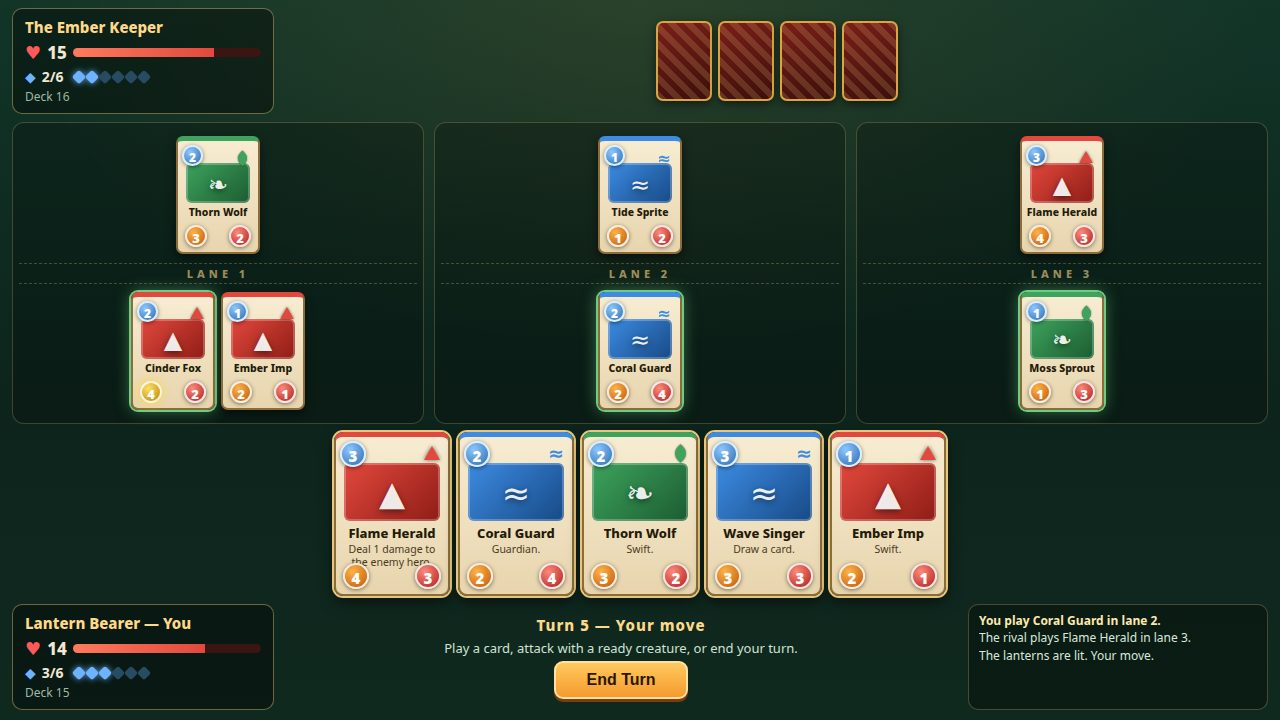
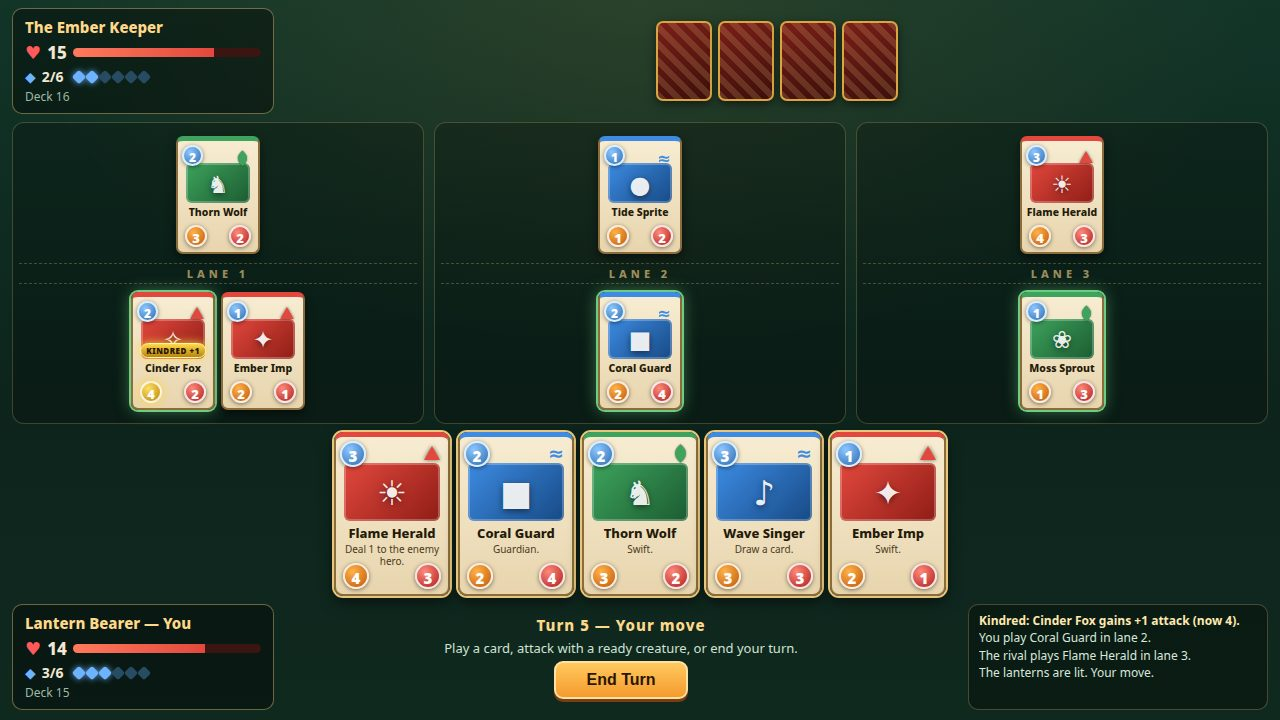
Lantern Lanes revision: distinct art per card, Kindred badge, cover card, unclipped text, win/loss flourish

diff --git a/game/style.css b/game/style.css
@@ -31,6 +31,9 @@ body {
   padding: 16px;
 }
 
+.title-row { display: flex; align-items: center; justify-content: center; gap: 44px; }
+.title-main { display: flex; flex-direction: column; align-items: center; gap: 10px; }
+
 .title-lantern { position: relative; width: 72px; height: 96px; }
 .lantern-glow {
   position: absolute; inset: -30px;
@@ -73,6 +76,19 @@ body {
 }
 #play-button:hover, #play-again:hover { filter: brightness(1.08); }
 #play-button:active, #play-again:active { transform: translateY(2px); box-shadow: 0 2px 0 #7a3c10; }
+
+/* The cover card: one big card on the title screen, so the cover shows
+   the game's own art at full size instead of only the lantern. */
+.cover-card { transform: rotate(4deg); box-shadow: 0 10px 28px rgba(0, 0, 0, 0.6), 0 0 32px rgba(255, 176, 66, 0.35); }
+.card.cover { width: 168px; height: 236px; border-radius: 12px; }
+.card.cover .card-cost { width: 36px; height: 36px; font-size: 20px; line-height: 36px; top: 6px; left: 6px; }
+.card.cover .card-mark { top: 8px; right: 8px; transform: scale(1.3); }
+.card.cover .card-art { height: 88px; margin: 38px 10px 0; }
+.card.cover .art-glyph { font-size: 52px; }
+.card.cover .card-name { font-size: 18px; margin-top: 8px; }
+.card.cover .card-text { font-size: 13px; min-height: 32px; }
+.card.cover .stat { width: 36px; height: 36px; font-size: 20px; line-height: 36px; }
+.card.cover .card-stats { bottom: 8px; padding: 0 10px; }
 
 .howto {
   background: rgba(0, 0, 0, 0.32); border: 1px solid rgba(255, 217, 138, 0.35);
@@ -196,7 +212,8 @@ body {
 }
 .art-glyph { font-size: 34px; color: rgba(255, 255, 255, 0.92); text-shadow: 0 2px 6px rgba(0, 0, 0, 0.5); }
 .card-name { font-size: 13px; font-weight: 800; text-align: center; margin-top: 5px; line-height: 1.15; padding: 0 4px; }
-.card-text { font-size: 10.5px; text-align: center; line-height: 1.25; padding: 2px 6px; color: #4a3a1c; min-height: 26px; }
+/* Rule text can never clip into the stats: three lines at most, then cut. */
+.card-text { font-size: 10px; text-align: center; line-height: 1.2; padding: 2px 6px; color: #4a3a1c; min-height: 24px; max-height: 36px; overflow: hidden; }
 .card-stats { position: absolute; bottom: 5px; left: 0; right: 0; display: flex; justify-content: space-between; padding: 0 7px; }
 .stat {
   width: 26px; height: 26px; border-radius: 50%;
@@ -207,6 +224,15 @@ body {
 .stat.hp { background: radial-gradient(circle at 35% 30%, #ff8a7a, #b01e1e); }
 .stat.atk.buffed { background: radial-gradient(circle at 35% 30%, #ffe066, #b8860b); box-shadow: 0 0 10px rgba(255, 214, 64, 0.95); }
 .stat.hp.hurt { filter: brightness(0.85); }
+
+/* The Kindred badge: a gold ribbon across the art's foot, naming the buff. */
+.kindred-badge {
+  position: absolute; top: 78px; left: 50%; transform: translateX(-50%); z-index: 3;
+  background: linear-gradient(180deg, #ffd94a, #b8860b); color: #2a1602;
+  font-size: 9px; font-weight: 900; letter-spacing: 1px; white-space: nowrap;
+  padding: 2px 7px; border-radius: 9px; border: 1px solid #fff3b0;
+  box-shadow: 0 0 10px rgba(255, 214, 64, 0.95);
+}
 
 .hand-card { cursor: pointer; }
 .hand-card.playable { box-shadow: 0 0 0 2px rgba(255, 217, 138, 0.9), 0 6px 14px rgba(0, 0, 0, 0.55); }
@@ -221,6 +247,8 @@ body {
 .card.on-board .card-text { display: none; }
 .card.on-board .stat { width: 22px; height: 22px; font-size: 13px; line-height: 22px; }
 .card.on-board .mark { transform: scale(0.85); }
+.card.on-board .kindred-badge { top: 46px; font-size: 8px; padding: 1px 5px; letter-spacing: 0.5px; }
+.card.on-board.kindred { box-shadow: 0 0 0 2px rgba(255, 214, 64, 0.9), 0 0 18px rgba(255, 214, 64, 0.55); }
 .card.on-board.summoned { animation: summon-pop 0.4s ease-out; }
 .card.on-board.hit { animation: hit-shake 0.35s ease-in-out; }
 .card.on-board.ready { box-shadow: 0 0 0 2px rgba(120, 220, 140, 0.9), 0 0 16px rgba(120, 220, 140, 0.5); cursor: pointer; }
@@ -257,6 +285,7 @@ body {
   background: rgba(4, 10, 8, 0.72);
 }
 .end-card {
+  position: relative; z-index: 2;
   text-align: center; padding: 44px 72px; border-radius: 16px;
   background: linear-gradient(180deg, #1d3a2d, #0e2018);
   border: 2px solid rgba(255, 217, 138, 0.6);
@@ -267,6 +296,21 @@ body {
 #end-title { font-family: Georgia, "Times New Roman", serif; font-size: 62px; letter-spacing: 8px; color: #ffd98a; text-shadow: 0 0 26px rgba(255, 176, 66, 0.7); }
 #end-overlay.loss #end-title { color: #a8c4de; text-shadow: 0 0 26px rgba(120, 160, 220, 0.6); }
 #end-subtitle { font-size: 16px; color: #d8e8dc; margin: 8px 0 20px; }
+
+/* The flourish: a slow-turning sunburst behind a win, a cold still
+   vignette behind a loss — the ending lands instead of just appearing. */
+.end-rays {
+  position: absolute; left: 50%; top: 50%; z-index: 1;
+  width: 760px; height: 760px; transform: translate(-50%, -50%);
+  border-radius: 50%; pointer-events: none;
+  background: repeating-conic-gradient(from 0deg, rgba(255, 200, 90, 0.16) 0deg 9deg, transparent 9deg 18deg);
+  animation: rays-turn 26s linear infinite;
+}
+#end-overlay.loss .end-rays {
+  background: radial-gradient(circle, rgba(90, 140, 200, 0.14), transparent 65%);
+  animation: none;
+}
+#end-overlay.draw .end-rays { display: none; }
 
 /* ---------- motion ---------- */
 
@@ -298,4 +342,8 @@ body {
   0% { transform: scale(0.7); opacity: 0; }
   60% { transform: scale(1.05); opacity: 1; }
   100% { transform: scale(1); opacity: 1; }
+}
+@keyframes rays-turn {
+  from { transform: translate(-50%, -50%) rotate(0deg); }
+  to { transform: translate(-50%, -50%) rotate(360deg); }
 }

diff --git a/game/src/cards.js b/game/src/cards.js
@@ -4,6 +4,8 @@
 // AND by shape, never by text alone: Ember is red triangles, Tide is blue
 // waves, Moss is green leaves.
 //
+// Every card also carries its OWN art glyph, so no two cards look alike
+// on the table: the art is the card's face, the faction mark is its crown.
 // The shared rule that binds a faction is Kindred: when you play a
 // creature, your other creatures of the same faction gain +1 attack.
 
@@ -19,19 +21,20 @@ export const FACTIONS = {
 //   'heal-3'        — restore 3 life to your hero
 // swift   — the creature can attack the turn it is played
 // guardian — enemies in this lane must attack this creature first
+// art — the card's own art glyph, unique across all twelve cards.
 export const CARDS = [
-  { id: 'ember-imp', name: 'Ember Imp', faction: 'ember', cost: 1, atk: 2, hp: 1, text: 'Swift.', swift: true },
-  { id: 'cinder-fox', name: 'Cinder Fox', faction: 'ember', cost: 2, atk: 3, hp: 2, text: '' },
-  { id: 'flame-herald', name: 'Flame Herald', faction: 'ember', cost: 3, atk: 4, hp: 3, text: 'Deal 1 damage to the enemy hero.', onPlay: 'damage-hero-1' },
-  { id: 'pyre-drake', name: 'Pyre Drake', faction: 'ember', cost: 5, atk: 6, hp: 5, text: '' },
-  { id: 'tide-sprite', name: 'Tide Sprite', faction: 'tide', cost: 1, atk: 1, hp: 2, text: '' },
-  { id: 'coral-guard', name: 'Coral Guard', faction: 'tide', cost: 2, atk: 2, hp: 4, text: 'Guardian.', guardian: true },
-  { id: 'wave-singer', name: 'Wave Singer', faction: 'tide', cost: 3, atk: 3, hp: 3, text: 'Draw a card.', onPlay: 'draw-1' },
-  { id: 'leviathan', name: 'Leviathan', faction: 'tide', cost: 6, atk: 7, hp: 7, text: '' },
-  { id: 'moss-sprout', name: 'Moss Sprout', faction: 'moss', cost: 1, atk: 1, hp: 3, text: '' },
-  { id: 'thorn-wolf', name: 'Thorn Wolf', faction: 'moss', cost: 2, atk: 3, hp: 2, text: 'Swift.', swift: true },
-  { id: 'grove-warden', name: 'Grove Warden', faction: 'moss', cost: 4, atk: 4, hp: 5, text: 'Restore 3 life to your hero.', onPlay: 'heal-3' },
-  { id: 'ancient-oak', name: 'Ancient Oak', faction: 'moss', cost: 5, atk: 5, hp: 6, text: 'Guardian.', guardian: true },
+  { id: 'ember-imp', name: 'Ember Imp', faction: 'ember', cost: 1, atk: 2, hp: 1, text: 'Swift.', swift: true, art: '✦' },
+  { id: 'cinder-fox', name: 'Cinder Fox', faction: 'ember', cost: 2, atk: 3, hp: 2, text: '', art: '✧' },
+  { id: 'flame-herald', name: 'Flame Herald', faction: 'ember', cost: 3, atk: 4, hp: 3, text: 'Deal 1 to the enemy hero.', onPlay: 'damage-hero-1', art: '☀' },
+  { id: 'pyre-drake', name: 'Pyre Drake', faction: 'ember', cost: 5, atk: 6, hp: 5, text: '', art: '★' },
+  { id: 'tide-sprite', name: 'Tide Sprite', faction: 'tide', cost: 1, atk: 1, hp: 2, text: '', art: '●' },
+  { id: 'coral-guard', name: 'Coral Guard', faction: 'tide', cost: 2, atk: 2, hp: 4, text: 'Guardian.', guardian: true, art: '■' },
+  { id: 'wave-singer', name: 'Wave Singer', faction: 'tide', cost: 3, atk: 3, hp: 3, text: 'Draw a card.', onPlay: 'draw-1', art: '♪' },
+  { id: 'leviathan', name: 'Leviathan', faction: 'tide', cost: 6, atk: 7, hp: 7, text: '', art: '≈' },
+  { id: 'moss-sprout', name: 'Moss Sprout', faction: 'moss', cost: 1, atk: 1, hp: 3, text: '', art: '❀' },
+  { id: 'thorn-wolf', name: 'Thorn Wolf', faction: 'moss', cost: 2, atk: 3, hp: 2, text: 'Swift.', swift: true, art: '♞' },
+  { id: 'grove-warden', name: 'Grove Warden', faction: 'moss', cost: 4, atk: 4, hp: 5, text: 'Restore 3 life.', onPlay: 'heal-3', art: '✿' },
+  { id: 'ancient-oak', name: 'Ancient Oak', faction: 'moss', cost: 5, atk: 5, hp: 6, text: 'Guardian.', guardian: true, art: '♜' },
 ];
 
 export const CARD_MAP = new Map(CARDS.map((card) => [card.id, card]));

diff --git a/game/index.html b/game/index.html
@@ -10,10 +10,27 @@
 <div id="app">
 
   <div id="title-screen">
-    <div class="title-lantern"><span class="lantern-glow"></span><span class="lantern-body"><span class="lantern-cap"></span><span class="lantern-light"></span><span class="lantern-base"></span></span></div>
-    <h1>LANTERN LANES</h1>
-    <p class="tagline">A three-lane card battler. Light your lanterns, outplay the Keeper.</p>
-    <button id="play-button">Play the game</button>
+    <div class="title-row">
+      <div class="title-main">
+        <div class="title-lantern"><span class="lantern-glow"></span><span class="lantern-body"><span class="lantern-cap"></span><span class="lantern-light"></span><span class="lantern-base"></span></span></div>
+        <h1>LANTERN LANES</h1>
+        <p class="tagline">A three-lane card battler. Light your lanterns, outplay the Keeper.</p>
+        <button id="play-button">Play the game</button>
+      </div>
+      <div class="card cover cover-card faction-ember" aria-hidden="true">
+        <div class="card-cost">5</div>
+        <div class="card-mark"><span class="mark mark-ember"><span class="shape shape-ember"></span></span></div>
+        <div class="card-art" style="background:linear-gradient(135deg, #e2483d, #8f1d16)">
+          <span class="art-glyph">★</span>
+        </div>
+        <div class="card-name">Pyre Drake</div>
+        <div class="card-text">&nbsp;</div>
+        <div class="card-stats">
+          <span class="stat atk">6</span>
+          <span class="stat hp">5</span>
+        </div>
+      </div>
+    </div>
     <div class="howto">
       <h2>How to play</h2>
       <ol>
@@ -68,6 +85,7 @@
   </div>
 
   <div id="end-overlay" hidden>
+    <div class="end-rays"></div>
     <div class="end-card">
       <div id="end-title"></div>
       <div id="end-subtitle"></div>

diff --git a/game/src/shots.js b/game/src/shots.js
@@ -2,10 +2,11 @@
 //
 // ?shot=title renders the title screen. ?shot=play renders a mid-game
 // table: turn 5, both heroes hurt, hands full, creatures across all three
-// lanes — one of them visibly Kindred-buffed. ?shot=win and ?shot=loss
-// render the same table with the game decided. Every preset is built
-// through the game's own engine and painted by its own renderer, so each
-// screenshot is a real render of the game itself.
+// lanes — one of them visibly Kindred-buffed, badge and log line both
+// naming the combo. ?shot=win and ?shot=loss render the same table with
+// the game decided. Every preset is built through the game's own engine
+// and painted by its own renderer, so each screenshot is a real render
+// of the game itself.
 
 import { Creature } from './engine.js';
 
@@ -40,7 +41,8 @@ export function applyShot(game, shot) {
   game.decks.ai = Array(16).fill('tide-sprite');
 
   // Kindred on show: the Cinder Fox stands beside an Ember Imp, so its
-  // attack reads 4 instead of its printed 3.
+  // attack reads 4 instead of its printed 3 — the badge on the card and
+  // the log line both say so.
   place(game, 'cinder-fox', 'player', 0, true, 1);
   place(game, 'ember-imp', 'player', 0, false);
   place(game, 'coral-guard', 'player', 1, true);
@@ -50,6 +52,7 @@ export function applyShot(game, shot) {
   place(game, 'flame-herald', 'ai', 2, true);
   game.say('The rival plays Flame Herald in lane 3.');
   game.say('You play Coral Guard in lane 2.');
+  game.say('Kindred: Cinder Fox gains +1 attack (now 4).');
 
   if (shot === 'win') {
     game.heroes.ai.life = 0;

diff --git a/game/src/render.js b/game/src/render.js
@@ -36,12 +36,19 @@ function cardFace(card, atk, hp) {
   const f = FACTIONS[card.faction];
   const buffed = atk > card.atk;
   const hurt = hp < card.hp;
+  // The art is the card's own glyph (unique per card); the faction mark
+  // in the corner is the suit. A Kindred-buffed creature wears its badge
+  // in plain sight, so the combo reads at thumbnail size.
+  const kindred = buffed
+    ? `<div class="kindred-badge">KINDRED +${atk - card.atk}</div>`
+    : '';
   return `
     <div class="card-cost">${card.cost}</div>
     <div class="card-mark">${factionMark(card.faction)}</div>
     <div class="card-art" style="background:linear-gradient(135deg, ${f.color}, ${f.dark})">
-      <span class="art-glyph">${f.glyph}</span>
+      <span class="art-glyph">${card.art}</span>
     </div>
+    ${kindred}
     <div class="card-name">${card.name}</div>
     <div class="card-text">${card.text || '&nbsp;'}</div>
     <div class="card-stats">
@@ -71,6 +78,7 @@ function creatureElement(creature, game, validTargets) {
   const prevHp = lastHp.get(creature.uid);
   if (prevHp !== undefined && creature.hp < prevHp) node.classList.add('hit');
   lastHp.set(creature.uid, creature.hp);
+  if (creature.atk > creature.card.atk) node.classList.add('kindred');
   if (creature.owner === 'player' && creature.ready && game.active === 'player' && !game.aiBusy) {
     node.classList.add('ready');
   }
